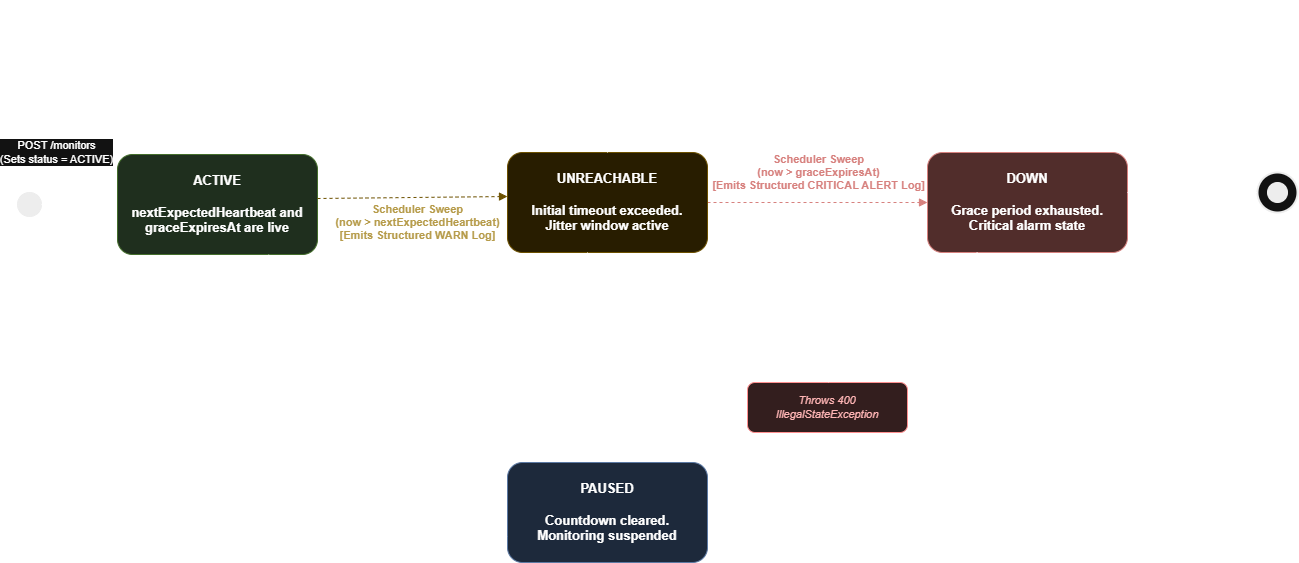
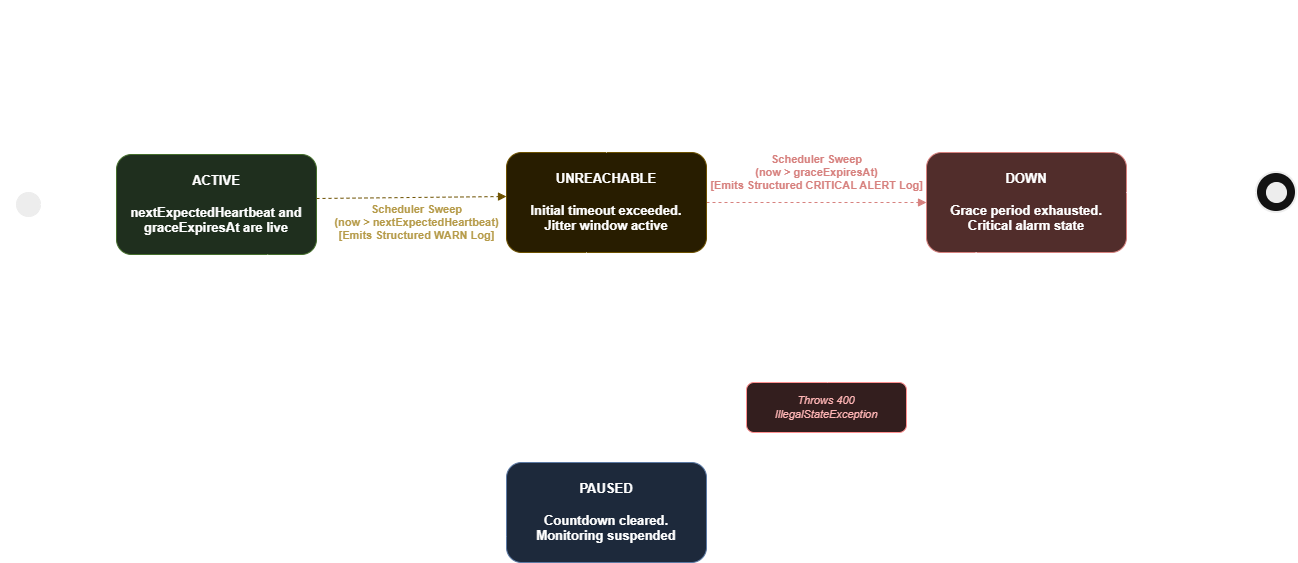
docs: clarify docker prerequisites and repository navigation steps

diff --git a/README.md b/README.md
@@ -45,46 +45,58 @@ This guarantees that the asynchronous system sweeper runs index-only scans, filt
 
 ## 💻 Setup & Execution Instructions
 
-### Prerequisites
+### 📋 Prerequisites
 
-- **Docker Desktop** or **Docker Engine** installed and running.
-- Git (to clone the repository).
+Before running this project, you must ensure that Docker is running and your network port is available:
 
-### Running the Application via Docker Compose
+* **Docker Status:** Make sure your Docker daemon is fully active.
+  * **Mac/Windows:** Open the **Docker Desktop** application and wait for the green status light.
+  * **Linux:** Ensure the service is started by running `sudo systemctl start docker`.
+* **Port Availability:** Verify that port **8080** is free and not being used by another application.
 
-The entire stack—including the application backend and its persistent database layer—is fully containerized using the local `Dockerfile.dev` and `docker-compose.yaml` infrastructure.
+---
+
+### 🚀 Running the Application via Docker Compose
+
+The entire stack—including the application backend and its persistent database layer—is fully containerized. Follow these steps to deploy the application:
 
 1. **Clone the repository:**
 
-```bash
-git clone https://github.com/Leroy0010/Pulse-Check-API.git
+   ```bash
+   git clone https://github.com/Leroy0010/Pulse-Check-API.git
+   ```
 
-```
+2. **Navigate into the project root directory:**
 
-```
-cd backend
-```
+    ```bash
+    cd Pulse-Check-API
+    ```
 
-2. **Configure Environment Variables:**
+3. **Navigate into the backend module folder:**
 
-Create a local `.env` file in the root directory of the project based on the provided configuration template:
+    ```bash
+    cd backend
+    ```
 
-```bash
-cp .env.example .env
+4. **Configure your local Environment Variables:**
 
-```
+    Create a local `.env` file from the provided configuration template:
 
-_Open the newly created `.env` file and adjust any database credentials, ports, or profile flags if necessary._  
-3. **Build and launch the containers:**
+   ```bash
+   cp .env.example .env
+   ```
 
-```bash
-docker compose up --build -d
+   *Open the newly created `.env` file to adjust any database credentials, ports, or profile flags if necessary.*
 
-```
+5. **Build and launch the containers:**
 
-4. **Verify Application Availability:**
+   ```bash
+   docker compose up --build -d
+   ```
 
-The server will compile, run database migrations automatically, and expose the HTTP API gateway on port `8080`.
+6. **Verify Application Availability:**
+
+   The server will compile, run database migrations automatically, and expose the HTTP API gateway on port `8080`.
 
 ### Interactive API Exploration
 
@@ -98,9 +110,9 @@ Once the containerized service initiates successfully, you can view, test, and s
 
 ### Global Constraints
 
-- All inputs are validated at the controller boundary.
-- Missing, malformed, or out-of-bounds metrics automatically trigger typed JSON validation payloads.
-- All successful tracking operations return a standardized payload wrapper envelope (`ApiResponse<T>`).
+* All inputs are validated at the controller boundary.
+* Missing, malformed, or out-of-bounds metrics automatically trigger typed JSON validation payloads.
+* All successful tracking operations return a standardized payload wrapper envelope (`ApiResponse<T>`).
 
 ### Endpoint Matrix
 
@@ -121,8 +133,8 @@ Once the containerized service initiates successfully, you can view, test, and s
 
 Initializes a tracked switch entity. If `gracePeriod` is omitted from the request body, the backend applies a protective **15-second** system default automatically.
 
-- **URL:** `POST /monitors`
-- **Payload Example:**
+* **URL:** `POST /monitors`
+* **Payload Example:**
 
 ```json
 {
@@ -133,7 +145,7 @@ Initializes a tracked switch entity. If `gracePeriod` is omitted from the reques
 }
 ```
 
-- **Response Example (`201 Created`):**
+* **Response Example (`201 Created`):**
 
 ```json
 {
@@ -151,8 +163,8 @@ Initializes a tracked switch entity. If `gracePeriod` is omitted from the reques
 
 Resets the countdown tracking metrics back to baseline. Can be processed dynamically even while a device is marked `UNREACHABLE` or `PAUSED`.
 
-- **URL:** `POST /monitors/solar-farm-node-402/heartbeat`
-- **Response Example (`200 OK`):**
+* **URL:** `POST /monitors/solar*farm-node-402/heartbeat`
+* **Response Example (`200 OK`):**
 
 ```json
 {
@@ -172,8 +184,8 @@ Resets the countdown tracking metrics back to baseline. Can be processed dynamic
 
 Allows engineers to halt monitoring triggers during active physical component maintenance cycles.
 
-- **URL:** `POST /monitors/solar-farm-node-402/pause`
-- **Response Example (`200 OK`):**
+* **URL:** `POST /monitors/solar-farm-node-402/pause`
+* **Response Example (`200 OK`):**
 
 ```json
 {
@@ -193,8 +205,8 @@ Allows engineers to halt monitoring triggers during active physical component ma
 
 Fetches a fully paginated, sorted grid of active system configurations with optional query filters.
 
-- **URL:** `GET /monitors?status=UNREACHABLE&page=0&size=10`
-- **Response Example (`200 OK`):**
+* **URL:** `GET /monitors?status=UNREACHABLE&page=0&size=10`
+* **Response Example (`200 OK`):**
 
 ```json
 {